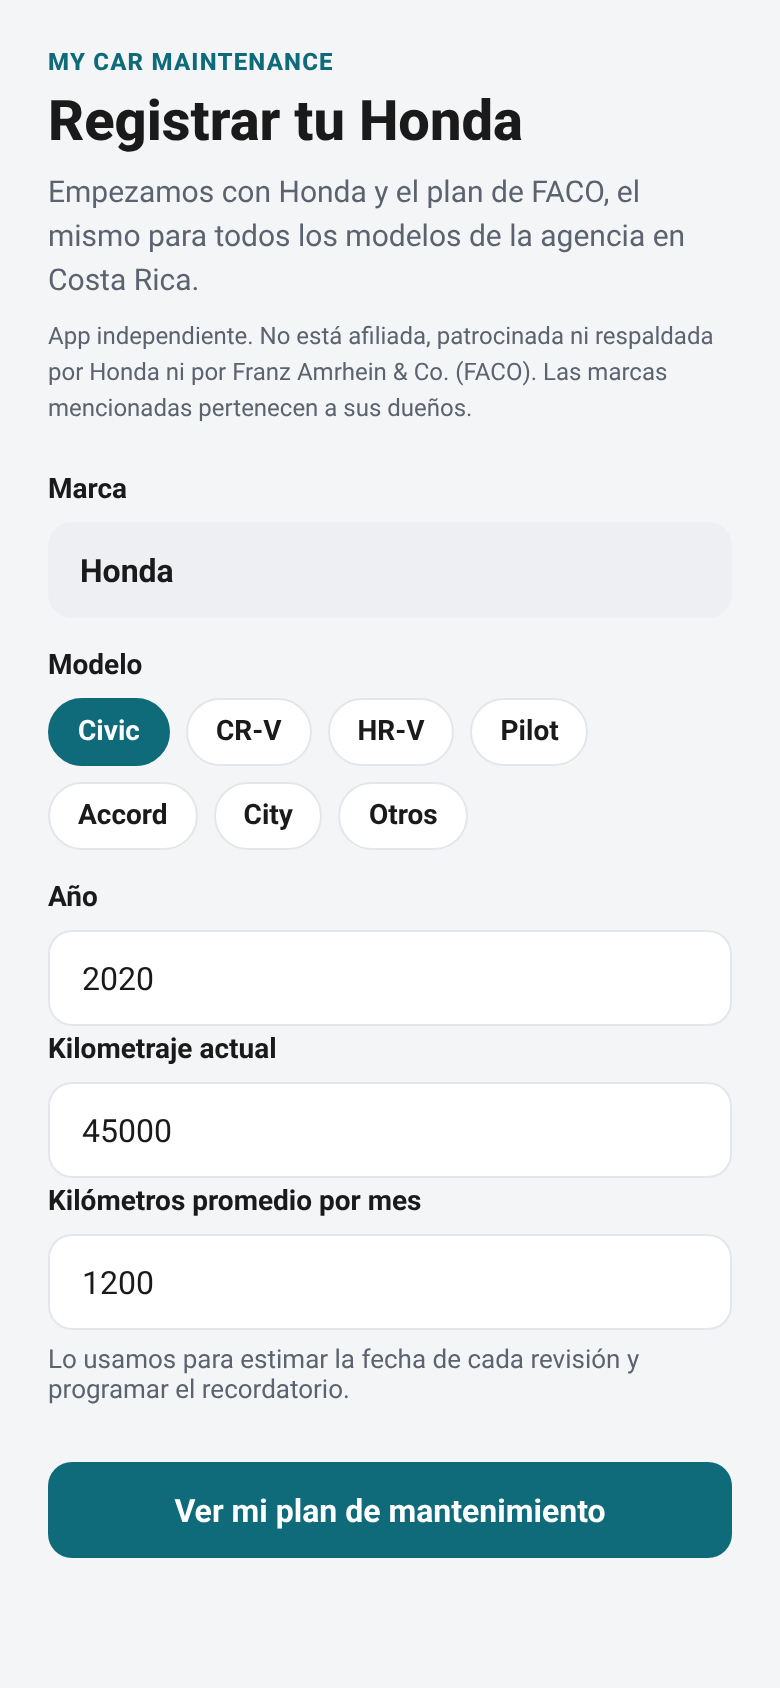
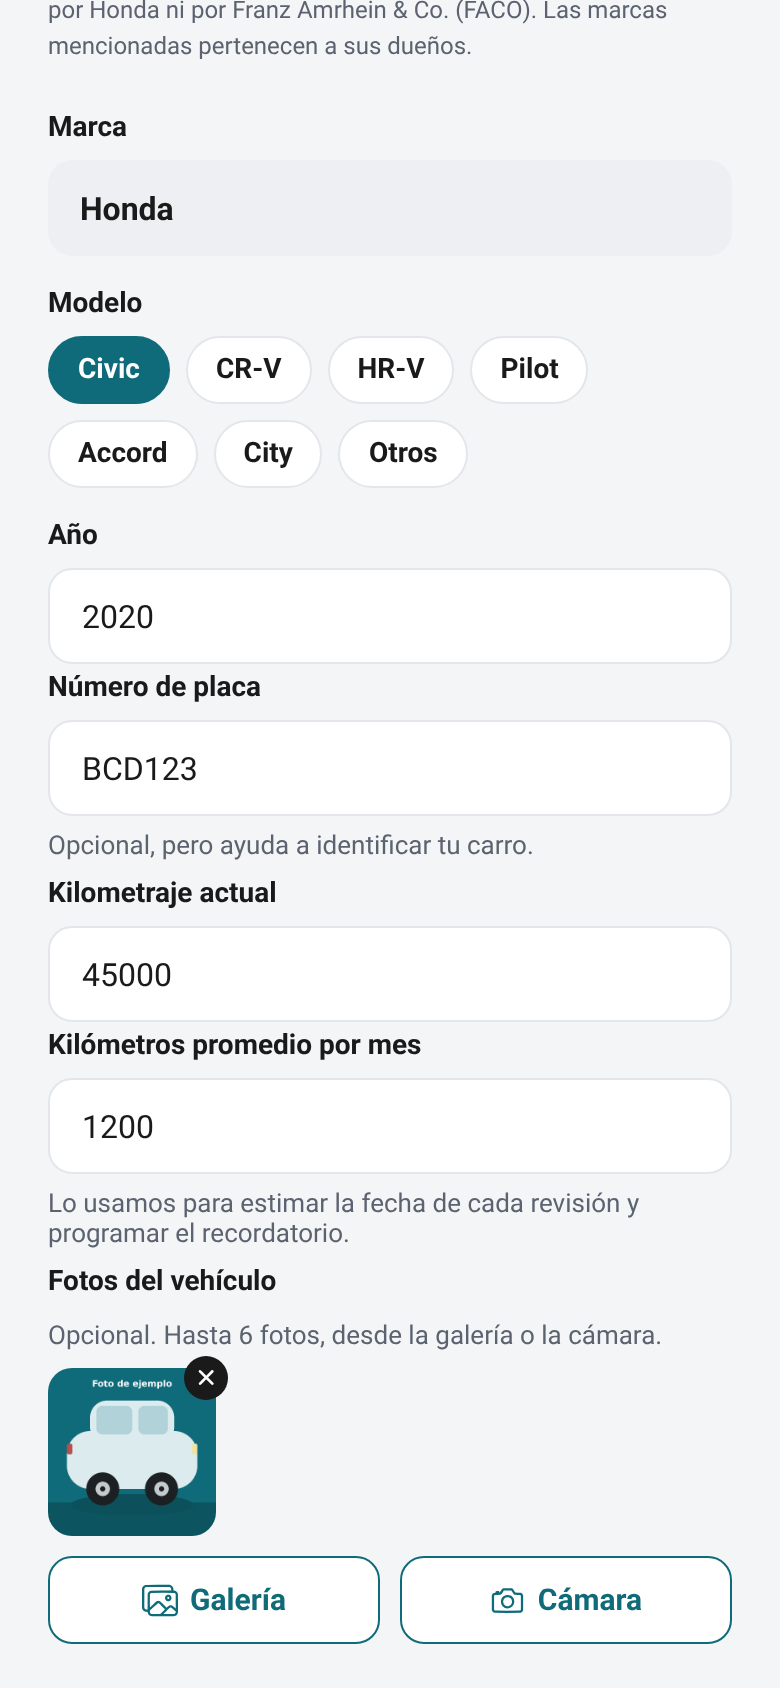
docs: actualizar capturas del README con placa y foto
Las pantallas de registro y del plan ahora muestran el número de placa y una foto de ejemplo del carro, alineadas con la app actual.

diff --git a/README.md b/README.md
@@ -23,17 +23,17 @@ Está hecha con **Expo** y **React Native** en TypeScript. Podés generar un APK
 
 ## Capturas de pantalla
 
-Estas capturas son de la versión web, con datos de ejemplo (Honda Civic 2020, 45.000 km y 1.200 km/mes).
+Estas capturas son de la versión web, con datos de ejemplo (Honda Civic 2020, placa BCD123, 45.000 km, 1.200 km/mes y una foto de ejemplo).
 
 <table>
   <tr>
     <td align="center" valign="top" width="25%">
-      <img src="docs/screenshots/01-registrar.png" alt="Pantalla para registrar el carro" width="220" />
-      <br /><sub>Registrar el carro</sub>
+      <img src="docs/screenshots/01-registrar.png" alt="Pantalla para registrar el carro, con número de placa y una foto de ejemplo" width="220" />
+      <br /><sub>Registrar el carro, con placa y foto</sub>
     </td>
     <td align="center" valign="top" width="25%">
-      <img src="docs/screenshots/02-plan.png" alt="Pantalla del plan con las próximas revisiones" width="220" />
-      <br /><sub>Plan de mantenimiento</sub>
+      <img src="docs/screenshots/02-plan.png" alt="Pantalla del plan con la placa, la foto y las próximas revisiones" width="220" />
+      <br /><sub>Plan de mantenimiento, con placa y foto</sub>
     </td>
     <td align="center" valign="top" width="25%">
       <img src="docs/screenshots/03-detalle-revision-b.png" alt="Detalle de una Revisión B" width="220" />
